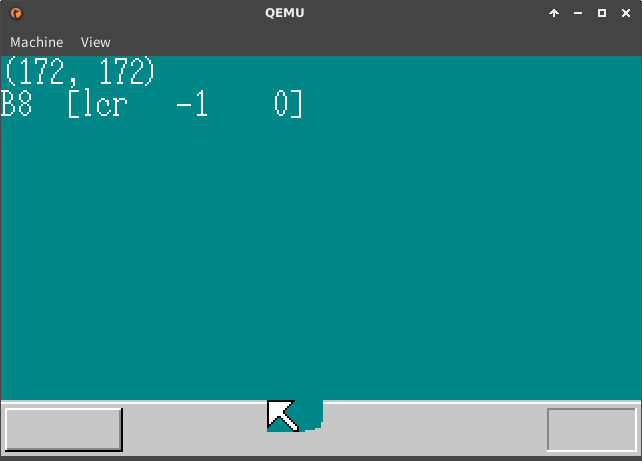
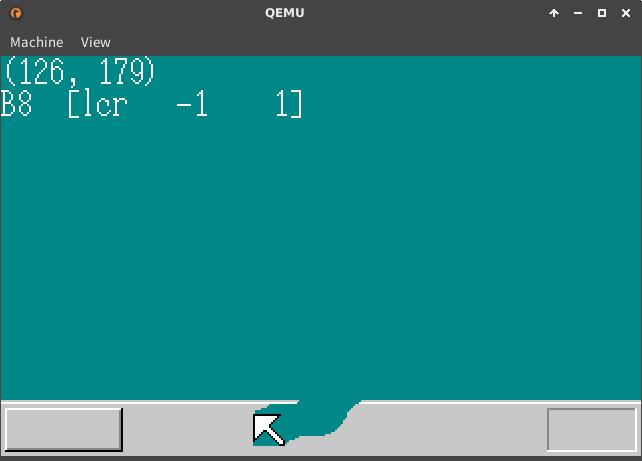
Fixed a 08d

diff --git a/08/08d/c_src/bootpack.c b/08/08d/c_src/bootpack.c
@@ -83,7 +83,7 @@ void HariMain(void) {
           if (my < 0) my = 0;
           if (mx > binfo->scrnx - 16) mx = binfo->scrnx - 16;
           if (my > binfo->scrny - 16) my = binfo->scrny - 16;
-          my_sprintf(s, "(%3d, %3d)", my, my);
+          my_sprintf(s, "(%3d, %3d)", mx, my);
           boxfill8(binfo->vram, binfo->scrnx, COL8_008484, 0, 0, 79, 15);
           putfonts8_asc(binfo->vram, binfo->scrnx, 0, 0, COL8_FFFFFF, s);
           putblock8_8(binfo->vram, binfo->scrnx, 16, 16, mx, my, mcursor, 16);
